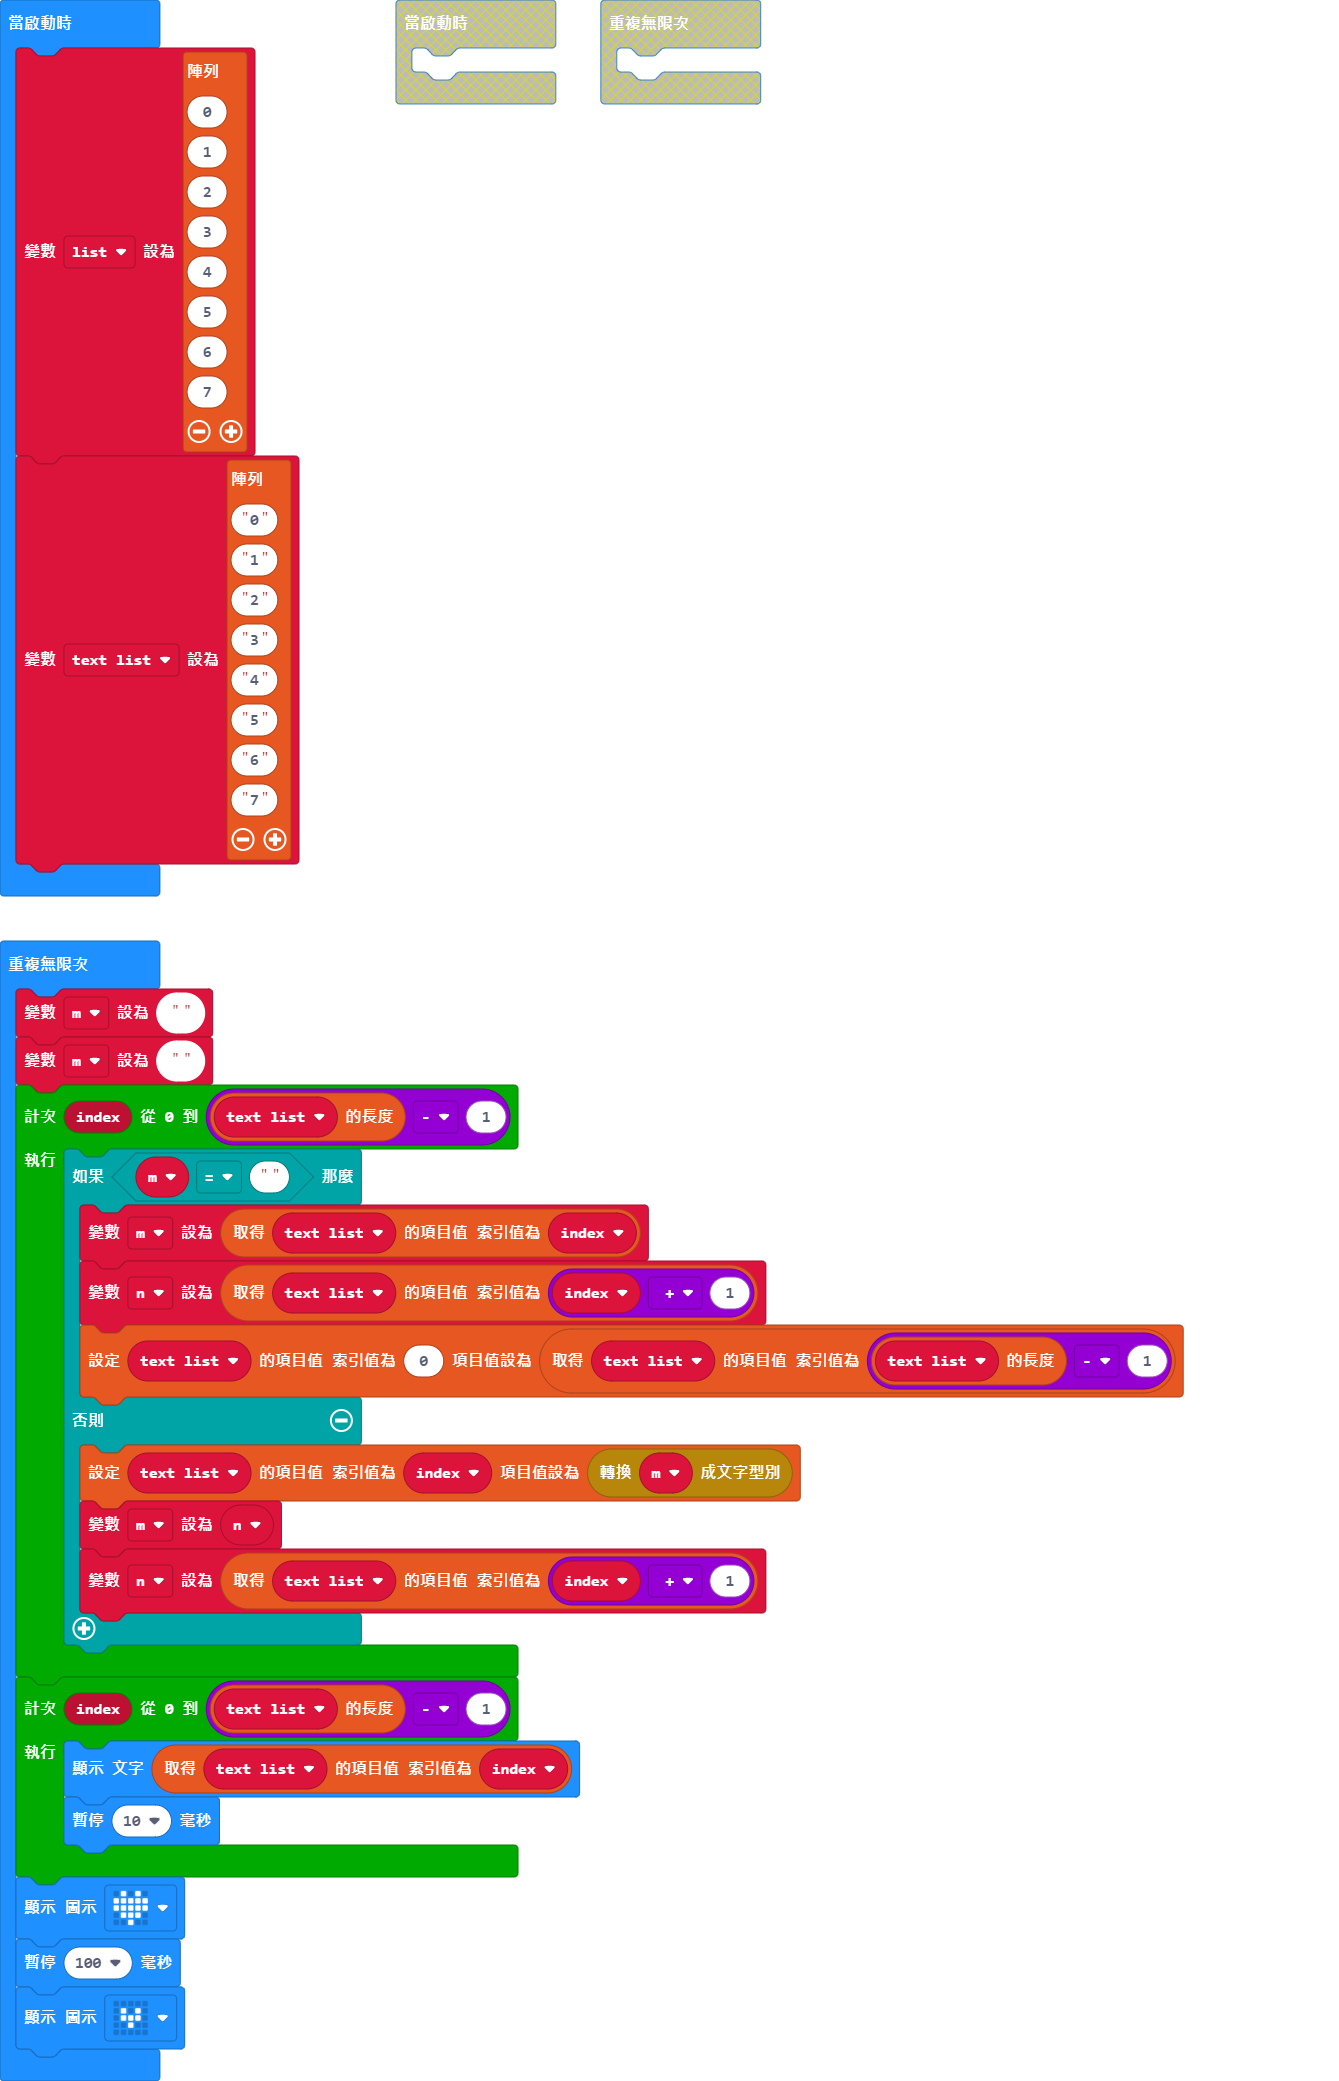
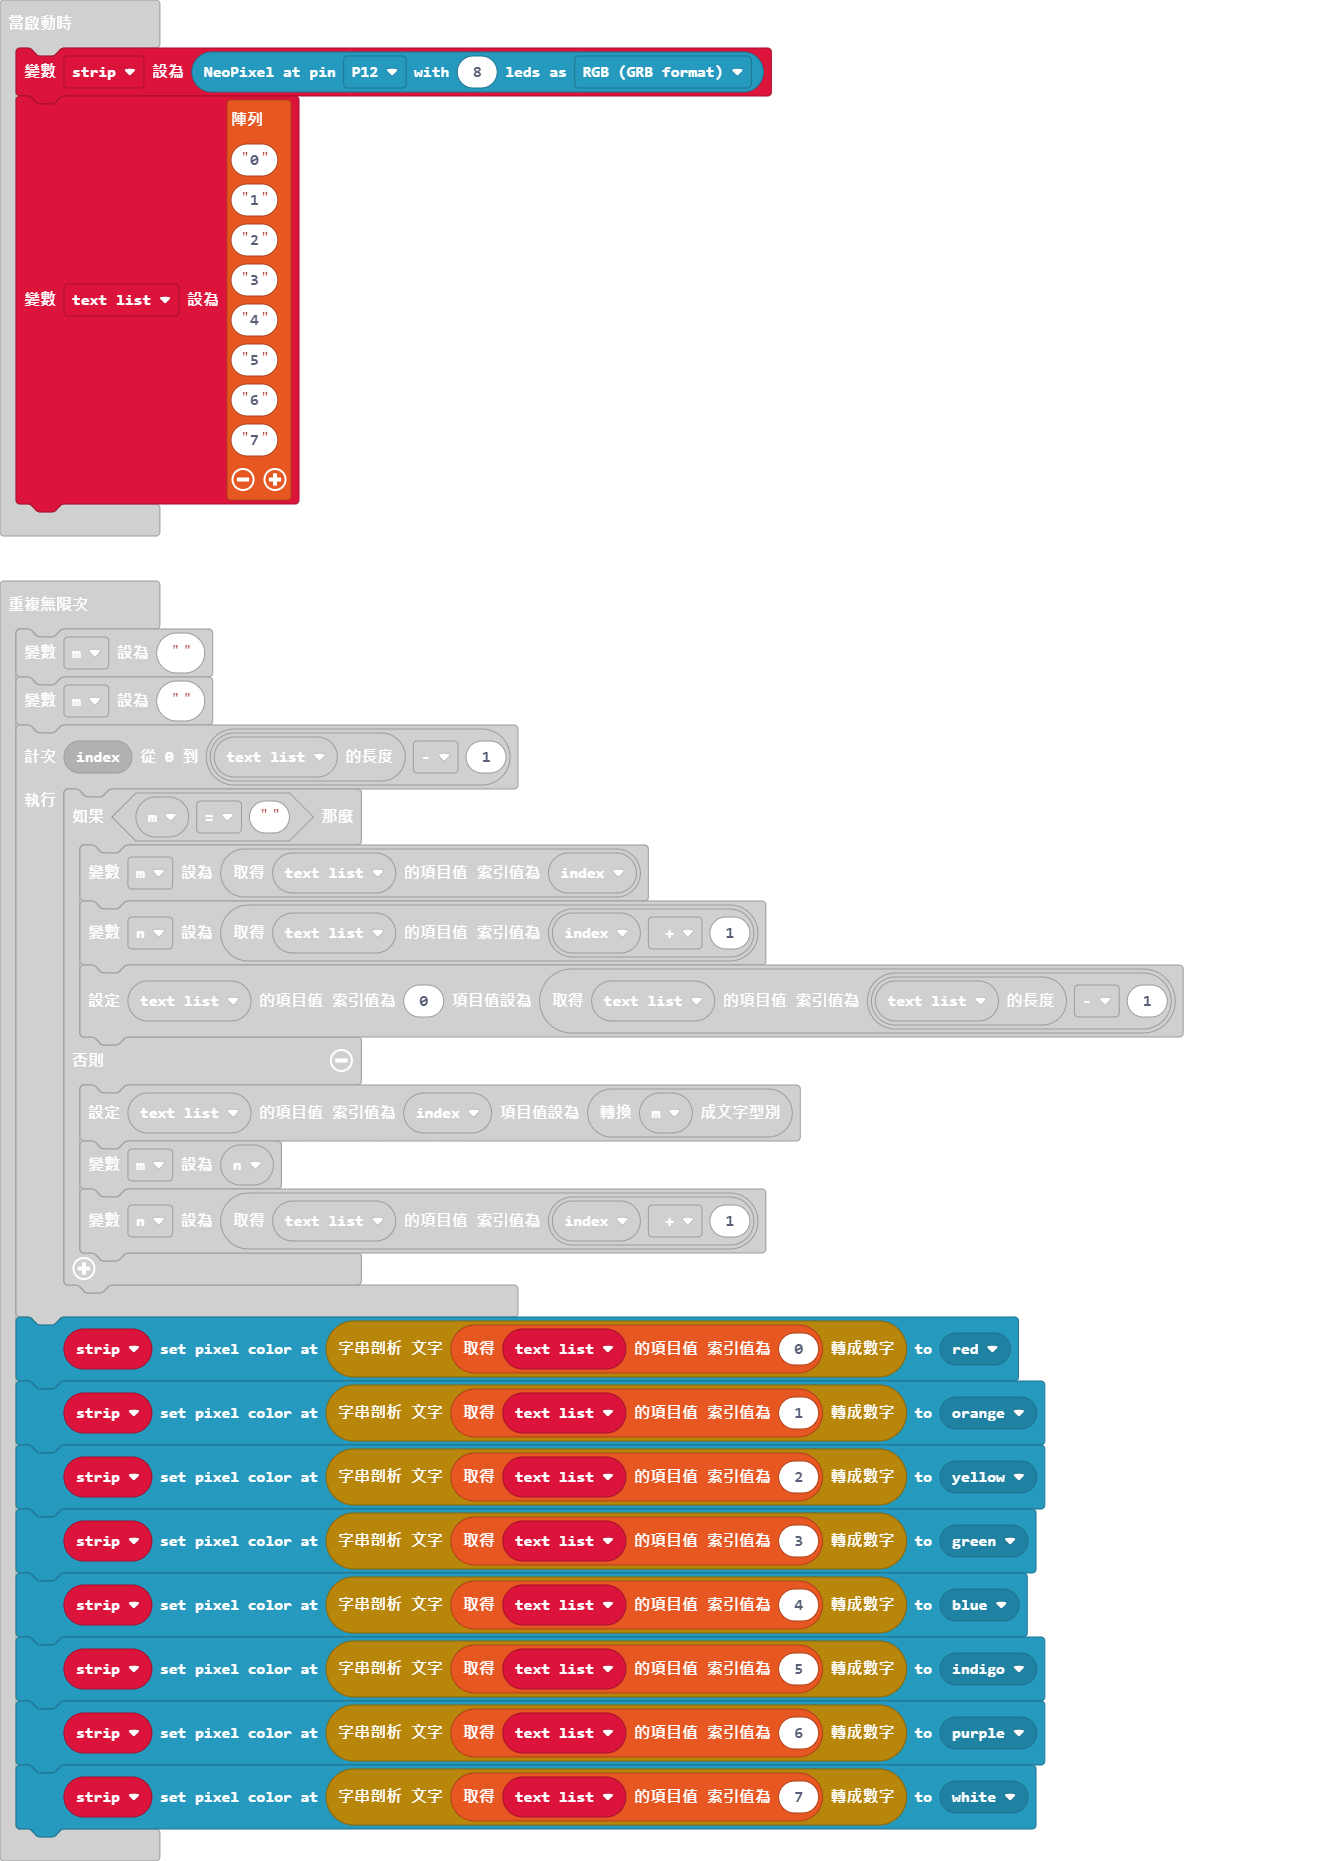
Update pxt.json, main.blocks, main.ts

diff --git a/main.ts b/main.ts
@@ -1,6 +1,6 @@
 let n = ""
 let m = ""
-let list = [0, 1, 2, 3, 4, 5, 6, 7]
+let strip = neopixel.create(DigitalPin.P12, 8, NeoPixelMode.RGB)
 let text_list = ["0", "1", "2", "3", "4", "5", "6", "7"]
 basic.forever(function () {
     m = ""
@@ -16,11 +16,12 @@ basic.forever(function () {
             n = text_list[index + 1]
         }
     }
-    for (let index = 0; index <= text_list.length - 1; index++) {
-        basic.showString("" + (text_list[index]))
-        basic.pause(10)
-    }
-    basic.showIcon(IconNames.Heart)
-    basic.pause(100)
-    basic.showIcon(IconNames.SmallHeart)
+    strip.setPixelColor(parseFloat(text_list[0]), neopixel.colors(NeoPixelColors.Red))
+    strip.setPixelColor(parseFloat(text_list[1]), neopixel.colors(NeoPixelColors.Orange))
+    strip.setPixelColor(parseFloat(text_list[2]), neopixel.colors(NeoPixelColors.Yellow))
+    strip.setPixelColor(parseFloat(text_list[3]), neopixel.colors(NeoPixelColors.Green))
+    strip.setPixelColor(parseFloat(text_list[4]), neopixel.colors(NeoPixelColors.Blue))
+    strip.setPixelColor(parseFloat(text_list[5]), neopixel.colors(NeoPixelColors.Indigo))
+    strip.setPixelColor(parseFloat(text_list[6]), neopixel.colors(NeoPixelColors.Purple))
+    strip.setPixelColor(parseFloat(text_list[7]), neopixel.colors(NeoPixelColors.White))
 })
